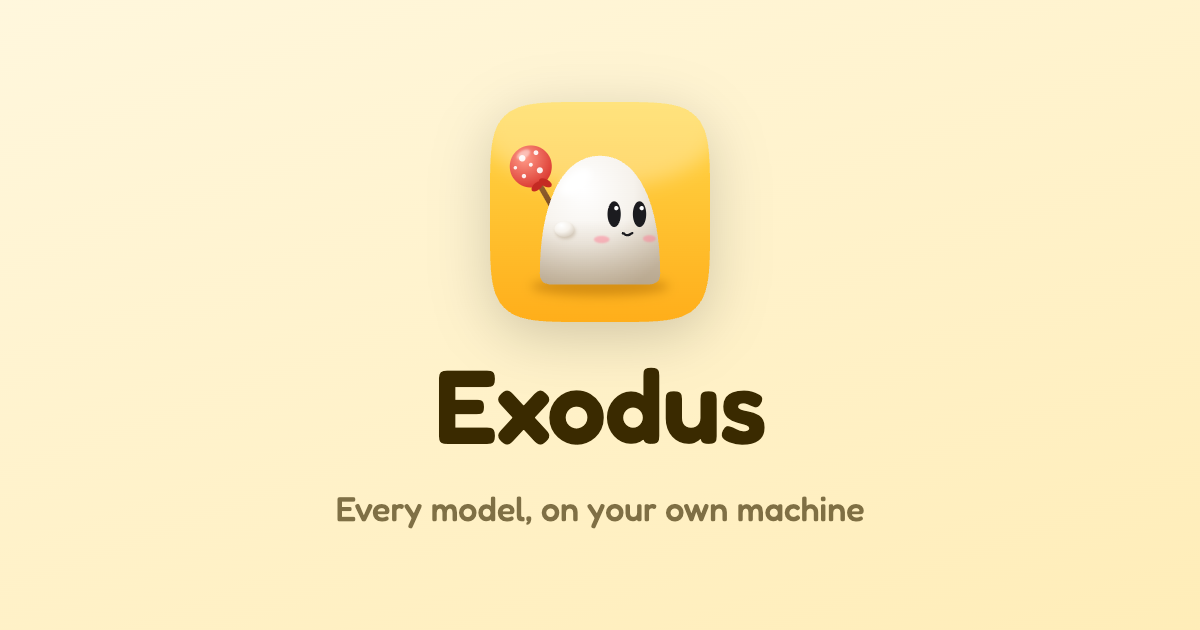
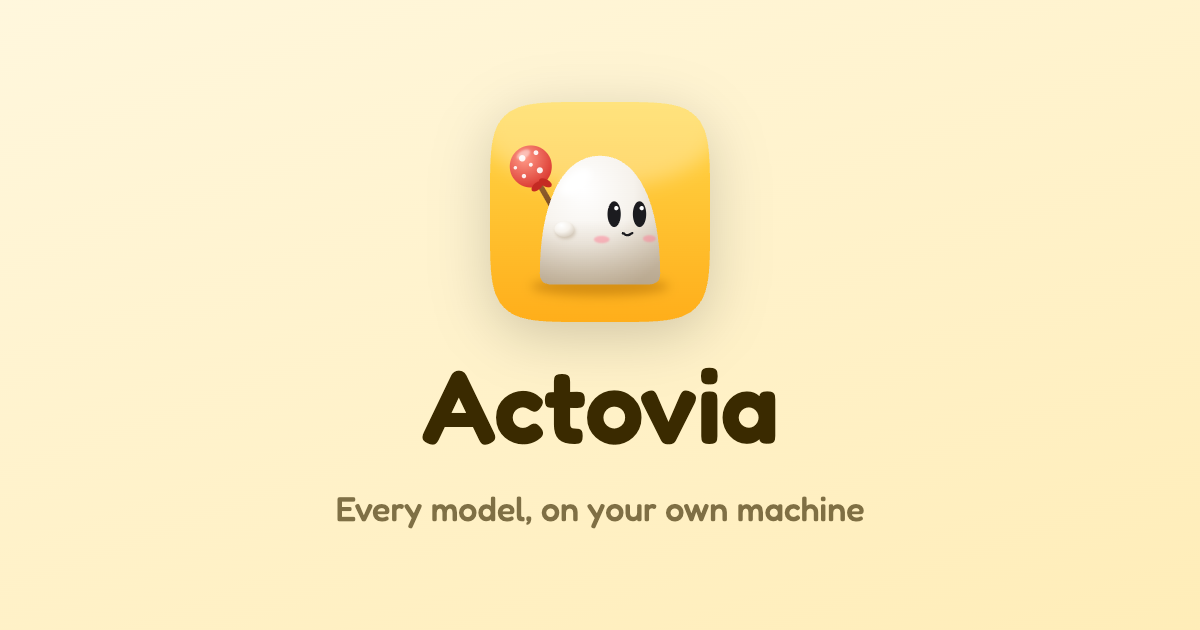
feat(brand): the site is Actovia at actovia.yancey.app — copy, links, release lookups (old Exodus installers still matched), og image

Changed region(s): [[0.3392, 0.573, 0.6475, 0.7238]]

diff --git a/app/_lib/release.ts b/app/_lib/release.ts
@@ -12,13 +12,13 @@ export interface GithubRelease {
 }
 
 export const RELEASES_URL =
-  'https://github.com/exodus-ai-org/exodus/releases/latest'
-export const REPO_URL = 'https://github.com/exodus-ai-org/exodus'
+  'https://github.com/actovia-ai/actovia/releases/latest'
+export const REPO_URL = 'https://github.com/actovia-ai/actovia'
 
 export async function getLatestRelease(): Promise<GithubRelease | null> {
   try {
     const res = await fetch(
-      'https://api.github.com/repos/exodus-ai-org/exodus/releases/latest',
+      'https://api.github.com/repos/actovia-ai/actovia/releases/latest',
       { next: { revalidate: 3600 } }
     )
     if (!res.ok) return null
@@ -27,6 +27,8 @@ export async function getLatestRelease(): Promise<GithubRelease | null> {
     return null
   }
 }
+
+const ASSET_PREFIX = /^(?:Actovia|Exodus)-/u
 
 export interface Downloads {
   version: string | null
@@ -37,19 +39,23 @@ export interface Downloads {
 
 /**
  * Asset URLs by the names electron-forge gives them
- * (`Exodus-1.17.0-arm64.dmg`, `Exodus-1.17.0.Setup.exe`, …). Anything
+ * (`Actovia-1.17.0-arm64.dmg`, `Actovia-1.17.0.Setup.exe`, …; releases
+ * before the rename carry the `Exodus-` prefix). Anything
  * missing falls back to the release page rather than a guessed URL.
  */
 export function resolveDownloads(release: GithubRelease | null): Downloads {
   const assets = release?.assets ?? []
+  // Releases before the rename are `Exodus-…`; from the first Actovia
+  // release on they are `Actovia-…`. Both prefixes are accepted.
   const find = (pattern: RegExp) =>
-    assets.find((a) => pattern.test(a.name))?.browser_download_url ??
+    assets.find((a) => ASSET_PREFIX.test(a.name) && pattern.test(a.name))
+      ?.browser_download_url ??
     release?.html_url ??
     RELEASES_URL
   return {
     version: release?.tag_name ?? null,
     mac: { dmg: find(/-arm64\.dmg$/u), zip: find(/darwin-arm64-.*\.zip$/u) },
-    windows: { exe: find(/\.Setup\.exe$/iu) },
+    windows: { exe: find(/[. ]Setup\.exe$/iu) },
     linux: { deb: find(/_amd64\.deb$/u), rpm: find(/\.x86_64\.rpm$/u) }
   }
 }

diff --git a/app/_components/footer.tsx b/app/_components/footer.tsx
@@ -7,7 +7,7 @@ const COLUMNS = [
     title: 'Product',
     links: [
       { label: 'Features', href: '#features' },
-      { label: 'Exodus for iPhone', href: '#iphone' },
+      { label: 'Actovia for iPhone', href: '#iphone' },
       { label: 'Privacy', href: '#privacy' },
       { label: 'Tech specs', href: '#specs' },
       { label: 'Download', href: '#download' }
@@ -25,7 +25,7 @@ const COLUMNS = [
   {
     title: 'Community',
     links: [
-      { label: 'GitHub', href: 'https://github.com/exodus-ai-org' },
+      { label: 'GitHub', href: 'https://github.com/actovia-ai' },
       { label: 'X', href: 'https://x.com/YanceyOfficial' }
     ]
   }
@@ -48,7 +48,7 @@ export function Footer() {
           <a href="#top" className="flex items-center gap-2.5">
             <Image src="/brand/ody-icon.png" alt="" width={36} height={36} />
             <span className="font-word text-night-ink text-[1.5rem] leading-none">
-              Exodus
+              Actovia
             </span>
           </a>
           <p className="max-w-[28ch] text-sm leading-relaxed">
@@ -96,13 +96,13 @@ export function Footer() {
             className="font-ghost"
             style={{ fontSize: 330, fontWeight: 200, letterSpacing: '-0.04em' }}
           >
-            Exodus
+            Actovia
           </text>
         </svg>
 
         <div className="absolute inset-x-0 bottom-0">
           <div className="mx-auto flex max-w-295 flex-col gap-2 px-6 pb-8 text-xs sm:flex-row sm:justify-between">
-            <p>Copyright © {new Date().getFullYear()} Exodus. MIT License.</p>
+            <p>Copyright © {new Date().getFullYear()} Actovia. MIT License.</p>
             <p>Made with care, and a marshmallow.</p>
           </div>
         </div>

diff --git a/app/_components/iphone.tsx b/app/_components/iphone.tsx
@@ -20,7 +20,7 @@ const SCREENS = [
 ]
 
 /**
- * Exodus for iPhone is a remote, not a second app: the computer stays the
+ * Actovia for iPhone is a remote, not a second app: the computer stays the
  * hub, the phone asks and watches. Three screens, side by side, the way
  * Apple lines up an iPhone app.
  */
@@ -30,7 +30,7 @@ export function IPhone() {
       <div className="mx-auto max-w-[980px] px-6 text-center">
         <h2 className="type-headline">Your computer, in your pocket.</h2>
         <p className="type-lede text-graphite mx-auto mt-6 max-w-[42ch]">
-          Pair Exodus for iPhone with a QR code, and the Exodus on your computer
+          Pair Actovia for iPhone with a QR code, and the Actovia on your computer
           becomes the hub. Ask from anywhere in the house; the work runs on your
           desk, with its tools, its files and its models.
         </p>
@@ -47,7 +47,7 @@ export function IPhone() {
       </ul>
 
       <p className="text-graphite mx-auto mt-16 max-w-[60ch] px-6 text-center text-sm">
-        Face ID on your phone unlocks Exodus on your computer. Pairing works on
+        Face ID on your phone unlocks Actovia on your computer. Pairing works on
         your own network, over an encrypted connection your phone verifies.
         Philharmonic on iPhone is on the way.
       </p>

diff --git a/app/_lib/shots.ts b/app/_lib/shots.ts
@@ -83,18 +83,18 @@ export const SHOTS = {
     file: '/shots/iphone-chat.png',
     size: [1206, 2622],
     brief:
-      'Exodus for iPhone: a chat streaming from the paired computer, with a tool card.'
+      'Actovia for iPhone: a chat streaming from the paired computer, with a tool card.'
   },
   iphoneControl: {
     file: '/shots/iphone-control.png',
     size: [1206, 2622],
     brief:
-      'Exodus for iPhone: a run working on the computer — Computer Use or terminal steps.'
+      'Actovia for iPhone: a run working on the computer — Computer Use or terminal steps.'
   },
   iphoneSettings: {
     file: '/shots/iphone-settings.png',
     size: [1206, 2622],
-    brief: 'Exodus for iPhone: Settings, showing models and providers.'
+    brief: 'Actovia for iPhone: Settings, showing models and providers.'
   },
   chatAudit: {
     file: '/shots/chat-audit.png',

diff --git a/app/_components/privacy.tsx b/app/_components/privacy.tsx
@@ -9,11 +9,11 @@ const POINTS = [
   },
   {
     title: 'Locked when you step away.',
-    body: 'Lock Exodus with a PIN or Touch ID. While it is locked, it answers nothing — not the window, not another app on your Mac.'
+    body: 'Lock Actovia with a PIN or Touch ID. While it is locked, it answers nothing — not the window, not another app on your Mac.'
   },
   {
     title: 'Nothing open on your network.',
-    body: 'Exodus listens only to your own computer until you pair a phone with a QR code, over an encrypted connection the phone verifies.'
+    body: 'Actovia listens only to your own computer until you pair a phone with a QR code, over an encrypted connection the phone verifies.'
   }
 ]
 

diff --git a/app/_components/hero.tsx b/app/_components/hero.tsx
@@ -23,13 +23,13 @@ export function Hero({
           <OdyIcon
             size={128}
             priority
-            alt="The Exodus app icon: Ody, a marshmallow with a bindle on its shoulder"
+            alt="The Actovia app icon: Ody, a marshmallow with a bindle on its shoulder"
             className="drop-shadow-[0_18px_30px_rgb(245_163_0/0.28)]"
           />
         </div>
 
         <div className="hero-arrive mt-8 flex flex-col items-center [animation-delay:80ms]">
-          <h1 className="font-word type-hero">Exodus</h1>
+          <h1 className="font-word type-hero">Actovia</h1>
           <p className="type-headline mt-3">
             Your assistant.
             <br />

diff --git a/app/_components/local-nav.tsx b/app/_components/local-nav.tsx
@@ -32,13 +32,13 @@ export function LocalNav({ downloadHref }: { downloadHref: string }) {
       )}
     >
       <nav
-        aria-label="Exodus"
+        aria-label="Actovia"
         className="mx-auto flex h-13 max-w-[1024px] items-center justify-between px-4 sm:px-6"
       >
         <a href="#top" className="flex items-center gap-2">
           <OdyIcon size={26} priority />
           <span className="font-word text-[1.3125rem] leading-none tracking-[-0.01em]">
-            Exodus
+            Actovia
           </span>
         </a>
         <div className="flex items-center gap-6 text-[0.8125rem] tracking-[-0.01em]">

diff --git a/app/layout.tsx b/app/layout.tsx
@@ -18,8 +18,8 @@ const interTight = Inter_Tight({
 })
 
 export const metadata: Metadata = {
-  metadataBase: new URL('https://exodus.yancey.app'),
-  title: 'Exodus — your assistant, on your own machine',
+  metadataBase: new URL('https://actovia.yancey.app'),
+  title: 'Actovia — your assistant, on your own machine',
   description:
     'A personal AI assistant that lives on your computer: chat for quick answers, Philharmonic agent teams for the big jobs, every model with your own keys, your data kept local, and your iPhone as the remote.'
 }

diff --git a/app/_components/run-story.tsx b/app/_components/run-story.tsx
@@ -59,7 +59,7 @@ export function RunStory() {
       <div className="mx-auto max-w-[980px] px-6 text-center">
         <h2 className="type-headline">It keeps going until it’s done.</h2>
         <p className="type-lede text-graphite mx-auto mt-6 max-w-[40ch]">
-          Exodus picks its tools, chains them and checks its own work. It stops
+          Actovia picks its tools, chains them and checks its own work. It stops
           only when it needs you, or before anything you can’t undo.
         </p>
       </div>

diff --git a/app/_components/shot.tsx b/app/_components/shot.tsx
@@ -70,7 +70,7 @@ export function ShotsProvider({
 /**
  * A product screenshot. Until its file exists this draws a window-shaped
  * placeholder that says what to capture, at what size, and where to put it.
- * A real capture already carries Exodus's own title bar, so it is shown as
+ * A real capture already carries Actovia's own title bar, so it is shown as
  * is, with only the corner radius and shadow a window has on screen.
  */
 export function Shot({

diff --git a/app/_components/download.tsx b/app/_components/download.tsx
@@ -31,7 +31,7 @@ export function Download({ downloads }: { downloads: Downloads }) {
           size={112}
           className="drop-shadow-[0_14px_24px_rgb(245_163_0/0.25)]"
         />
-        <h2 className="type-headline mt-8">Get Exodus.</h2>
+        <h2 className="type-headline mt-8">Get Actovia.</h2>
         <p className="type-lede text-graphite mt-4">
           Free and open source.
           {downloads.version

diff --git a/app/_components/highlights.tsx b/app/_components/highlights.tsx
@@ -52,7 +52,7 @@ const TILES: Tile[] = [
   },
   {
     title: 'Plug in more tools.',
-    body: 'Any MCP server, and skills from skills.sh installed in one click and shared with the exodus command-line tool.',
+    body: 'Any MCP server, and skills from skills.sh installed in one click and shared with the actovia command-line tool.',
     span: 'md:col-span-4'
   },
   {
